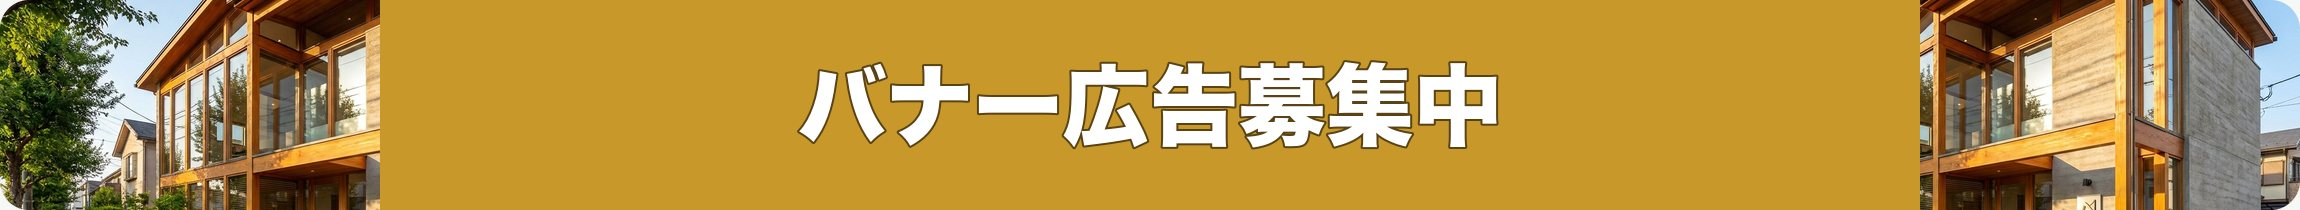
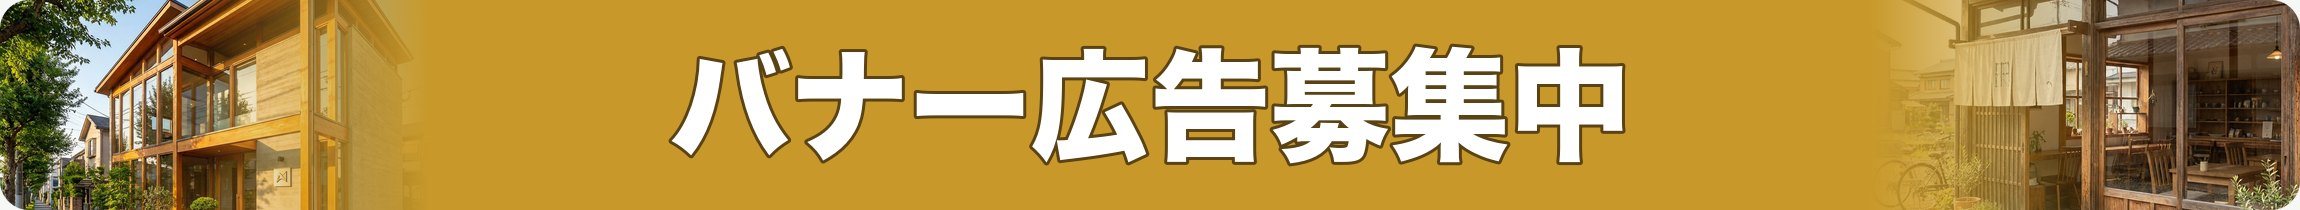
v1.29: 広告募集バナーを刷新（左=企業/右=飲食店の別写真・グラデーション・文字拡大）
- 左右で同じ写真だったのを、左=企業建物／右=飲食店(カフェ)の別写真に変更
- 両端の写真に内側へフェードするグラデーションを追加し金地に自然になじませ
- 「バナー広告募集中」の文字を拡大(高さ上限0.42→0.58em相当、114-120px)
- バナー参照を ?v=129 に更新／起動画面 1.28→1.29

diff --git a/index.html b/index.html
@@ -789,7 +789,7 @@ body.cursor-hidden,body.cursor-hidden *{cursor:none !important;}
 <div id="power-screen">
   <div style="display:flex;flex-direction:column;align-items:center;gap:0;">
     <div class="ps-logo-main">しそチャン<em>NET</em></div>
-    <div class="ps-version">version 1.28</div>
+    <div class="ps-version">version 1.29</div>
     <div class="ps-test-badge">試験放送中</div>
   </div>
   <div style="height:18px"></div>
@@ -985,7 +985,7 @@ function makeBannerCompact(name, tagline, bg, accent, icon){
 }
 
 // 画像バナーをHTMLに（縦=bannerC/横=banner）。?v=でキャッシュ更新
-function imgBanner(src){return '<img src="'+src+'?v=125" alt="" style="width:100%;display:block;border:0">';}
+function imgBanner(src){return '<img src="'+src+'?v=129" alt="" style="width:100%;display:block;border:0">';}
 var SPONSORS=[
   {name:'町家cafe＆ギャラリーさんしょう', url:'https://cafesansyo.com',
    banner:imgBanner('_banner_sansho_land.jpg'),   // 横向き(1400x320)
